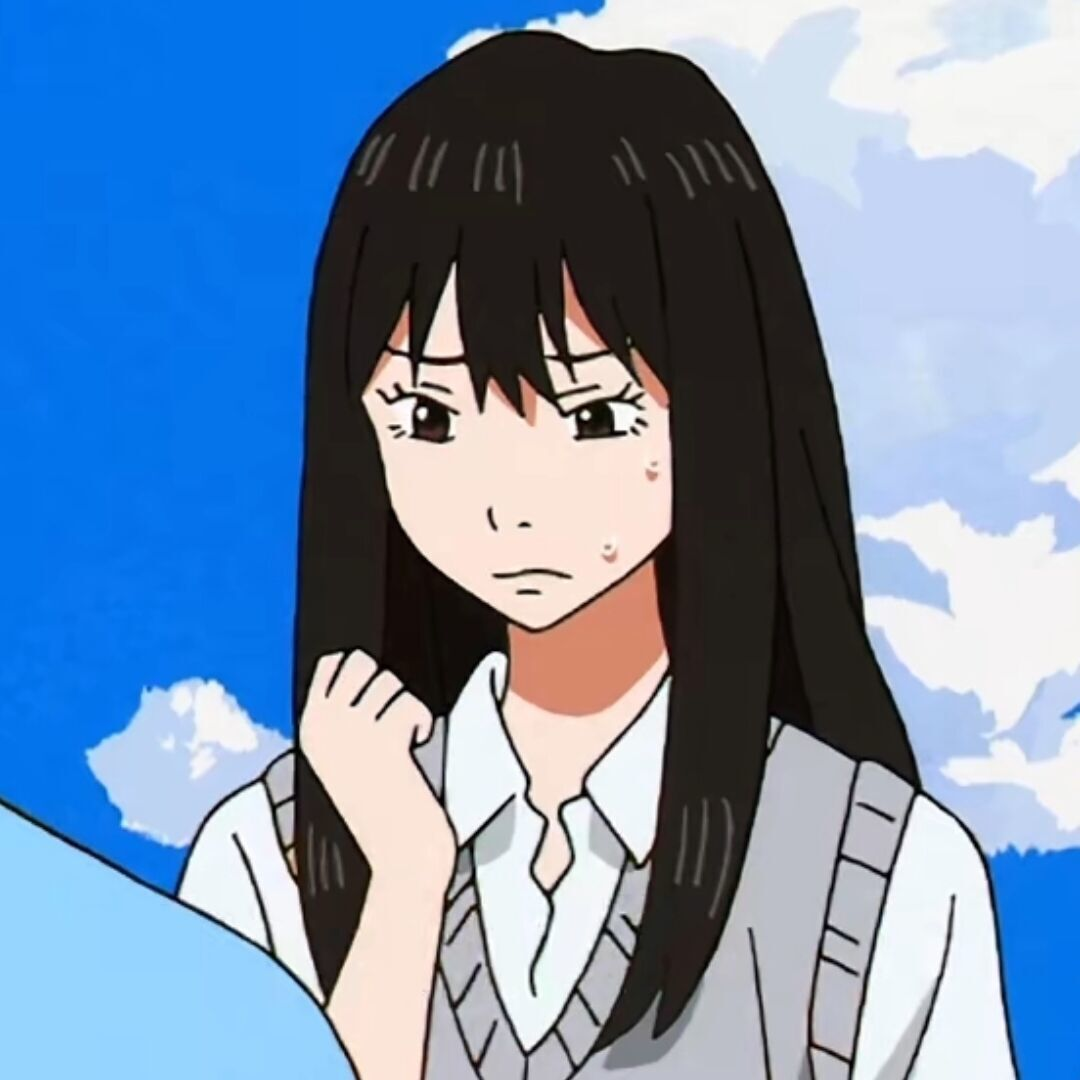
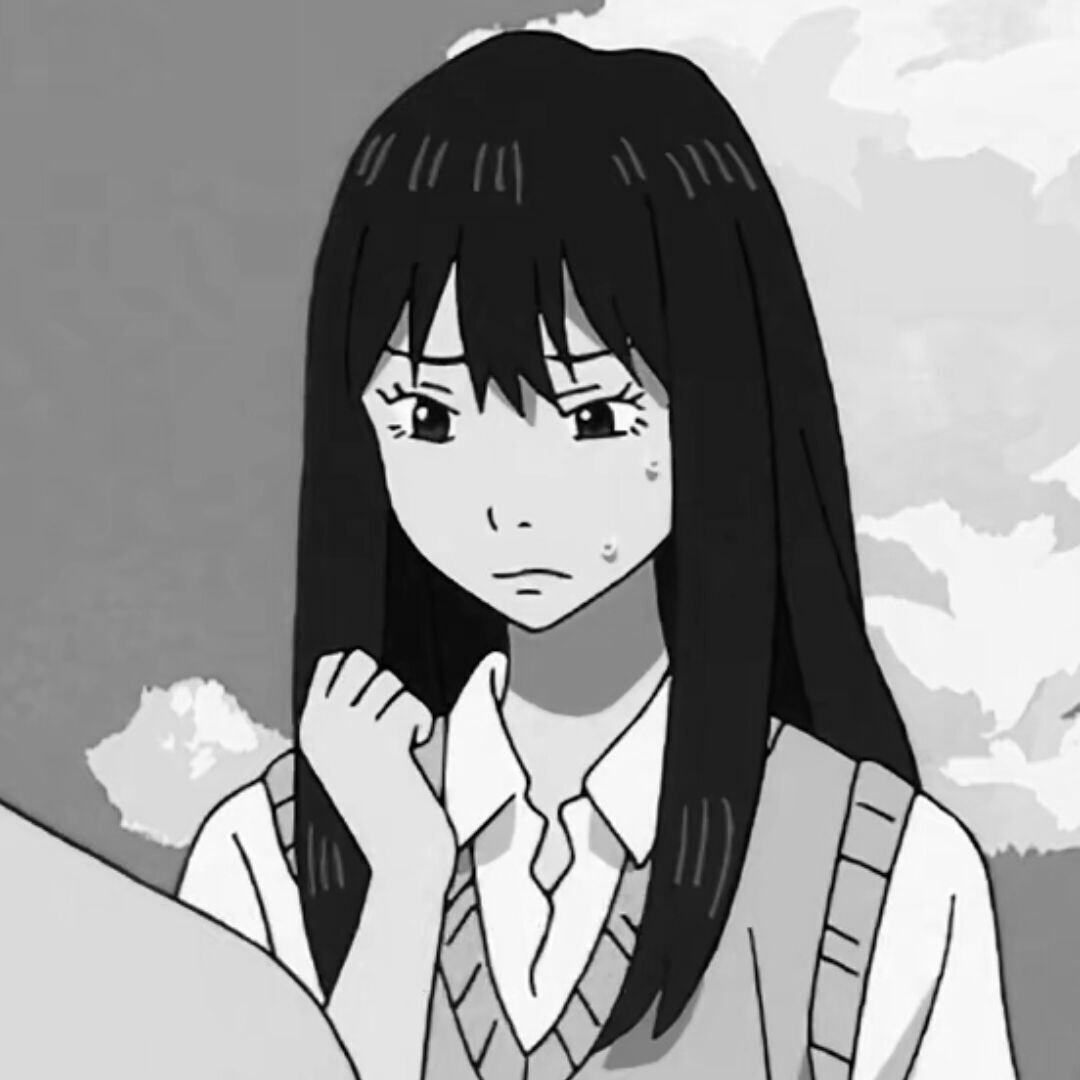
test 2 finished

diff --git a/DIP/spacetrans.py b/DIP/spacetrans.py
@@ -1,0 +1,62 @@
+from numba import jit
+import numpy as np
+import cv2 as cv
+from matplotlib import pyplot as plt
+
+
+@jit(nopython=False, parallel=True)
+def equalize(img):
+    output = np.copy(img)
+    intput = np.copy(img)
+    p_r = []
+    p_s = []
+    for i in range(256):
+        p_r.append(np.sum(intput == i) / (img.shape[0] * img.shape[1]))
+    # 输出图像的概率密度函数
+    pr = 0
+    for i in range(256):
+        pr += p_r[i]
+        p_s.append(pr)
+    # 求解变换后的输出图像
+    for i in range(256):
+        output[np.where(intput == i)] = 255 * p_s[i]
+
+    return output
+
+
+def localequalhist(img):
+    cv.namedWindow("clahe image", cv.WINDOW_NORMAL)
+    clahe = cv.createCLAHE(clipLimit=5, tileGridSize=(7, 7))
+    dst = clahe.apply(img)
+    cv.imshow("clahe image", dst)
+
+
+class Histogram(object):
+    def __init__(self, sri):
+        self.img = cv.imread(sri, 0)
+
+    def histogramgenr(self):
+        cv.namedWindow("img", cv.WINDOW_NORMAL)
+        cv.imshow('img', self.img)
+        hist = cv.calcHist([self.img], [0], None, [256], [0, 256])
+        histo = np.zeros(256)
+        array = np.array(self.img)
+        array = array.reshape(-1)
+        for i in range(array.shape[0]):
+            histo[(array[i] - 1)] += 1
+
+        plt.plot(histo)
+        plt.plot(hist)
+        plt.show()
+
+    def equalizehisto(self):
+
+        # equ = cv.equalizeHist(self.img)
+        output = equalize(self.img)
+        cv.imshow('img', output)
+        ehist = cv.calcHist([output], [0], None, [256], [0, 256])
+        # ehist1 = cv.calcHist([output], [0], None, [256], [0, 256])
+        plt.plot(ehist)
+        # plt.plot(equ)
+        plt.show()
+        localequalhist(self.img)

diff --git a/DIP/main.py b/DIP/main.py
@@ -1,14 +1,30 @@
 import sys
 import cv2 as cv
+from PIL import Image
 import numpy as np
-from matplotlib import pyplot as plt
+import spacetrans
 
 runcase = int(sys.argv[1])
 image_path = './test.jpg'
 
 if runcase == 0:
-    im = cv.imread(image_path)
+    im = cv.cvtColor(cv.imread(image_path), cv.COLOR_RGB2GRAY)
+    cv.imwrite("test.jpg", im)
+    cv.namedWindow("test picture", cv.WINDOW_NORMAL)
+    cv.imshow("test picture", im)
     print(im.shape)
+
     mean, std = cv.meanStdDev(im)
-    print("灰度平均值:", mean)
-    print("协方差值", std)
+    print("方差:", std)
+    print("标准差:", std)
+
+    # 使用numpy计算图像1与图像2之间的协方差
+    im = Image.open("test.jpg")
+
+    cv.waitKey(0)
+
+if runcase == 1:
+    histo = spacetrans.Histogram(image_path)
+    histo.histogramgenr()
+    # histo.equalizehisto()
+    cv.waitKey(0)
